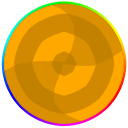
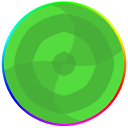
added and updated assets

diff --git a/vs2013/Parosteal/source/Player.cpp b/vs2013/Parosteal/source/Player.cpp
@@ -60,6 +60,10 @@ Player::Player(Object* map)
 	m_top->AddTags({ "Player", "Base" });
 	m_top->AddComponent(new Sprite("TopTop.png"));
 
+	AddChild(m_topDude = new GameObject());
+	m_topDude->AddTags({ "Player", "Dude" });
+	m_topDude->AddComponent(new Sprite("TopDude.png"));
+
 	AddChild(m_tip = new GameObject());
 	m_tip->AddTags({ "Player", "Tip" });
 	m_tip->AddComponent(new Sprite("PlayerTip.png"));
@@ -133,6 +137,7 @@ void Player::update(float dt)
 	tipT.SetPosition(pmath::Mat2::createRotation(SpinAmount) * tipT.GetPosition());
 
 	m_top->transform.Rotate(SpinAmount);
+	m_topDude->transform.Rotate(SpinAmount);
 
 	// Keep tip in rational range
 	if (tipT.GetPosition().lengthSquared() > 12000)
@@ -141,7 +146,9 @@ void Player::update(float dt)
 	// Keep top in opposite direction of tip
 	m_baseTargetPos = -tipT.GetPosition();
 	m_top->transform.Move((m_baseTargetPos - m_top->transform.GetPosition()) * dt * 3);
+
 	m_topShadow->transform.SetPosition(m_top->transform.GetPosition() * 0.90);
+	m_topDude->transform.SetPosition(m_top->transform.GetPosition() * 1.05);
 
 
 	//float rotation = dt * (tipPos.length() + 100);

diff --git a/vs2013/Parosteal/include/Player.h b/vs2013/Parosteal/include/Player.h
@@ -17,6 +17,7 @@ public:
 private:
 	GameObject* m_top;
 	GameObject* m_topShadow;
+	GameObject* m_topDude;
 	GameObject* m_tip;
 
 	Object* m_map;
